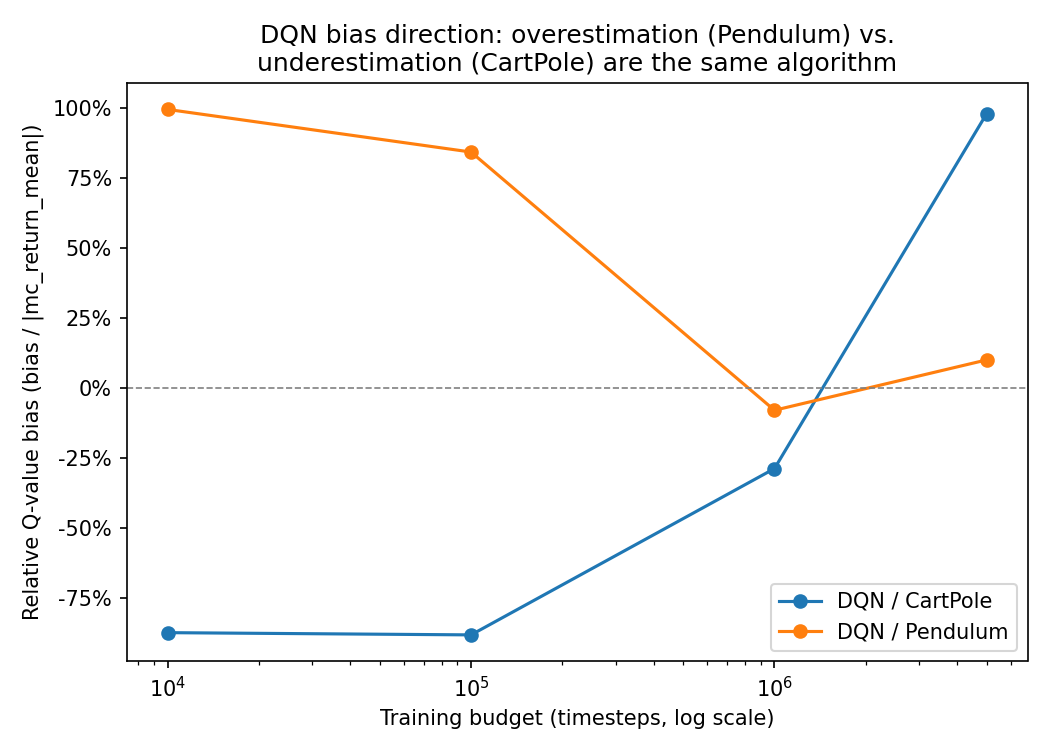
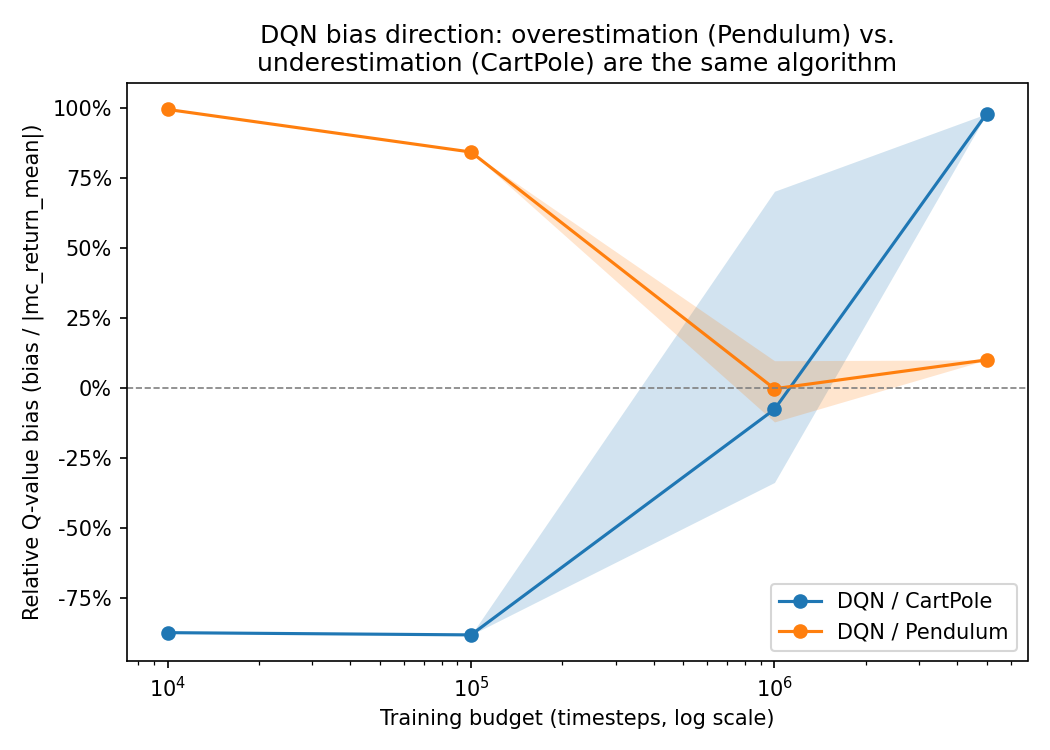
add model evaluation different seeds

Changed region(s): [[0.4571, 0.1533, 0.9448, 0.8587], [0.4876, 0.2453, 0.5181, 0.276], [0.4571, 0.2147, 0.4876, 0.2453]]

diff --git a/evaluate_models.py b/evaluate_models.py
@@ -39,6 +39,7 @@ import argparse
 import csv
 import json
 import re
+from collections import defaultdict
 from pathlib import Path
 from typing import Optional
 
@@ -409,28 +410,45 @@ def select_canonical_checkpoint_runs(ckpt_rows_by_run: dict[str, list[dict]]) ->
     return canonical
 
 
-# =============================================================================
 # Plots: default (budget-comparison) mode
-# =============================================================================
+
+def _aggregate_new_by_budget(
+    rows: list[dict], algo: str, env_id: str, value_key: str
+) -> tuple[np.ndarray, np.ndarray, np.ndarray, np.ndarray]:
+    """Groups 'new'-variant rows for (algo, env_id) by training budget and
+    aggregates value_key across seeds sharing that budget.
+
+    Returns (budgets, means, lo, hi), all sorted by budget.
+    """
+    by_budget = defaultdict(list)
+    for r in rows:
+        if r["algo"] == algo and r["env_id"] == env_id and r["variant"] == "new":
+            by_budget[r["timesteps"]].append(r[value_key])
+
+    budgets = np.array(sorted(by_budget))
+    means = np.array([np.mean(by_budget[b]) for b in budgets])
+    lo = np.array([np.min(by_budget[b]) for b in budgets])
+    hi = np.array([np.max(by_budget[b]) for b in budgets])
+    return budgets, means, lo, hi
+
 
 def plot_bias_direction(rows: list[dict], out_path: Path) -> None:
     """Finding: DQN's Q-value bias direction is opposite on CartPole
     (underestimates for most of training) vs. Pendulum (overestimates for
     most of training).
+
+    Budgets with more than one seed are aggregated:
+    mean line, shaded band spans the observed min-max across seeds.
     """
     groups = [("dqn", "CartPole-v1", "DQN / CartPole"), ("dqn", "Pendulum-v1", "DQN / Pendulum")]
     fig, ax = plt.subplots(figsize=(7, 5))
 
     for algo, env_id, label in groups:
-        group_rows = sorted(
-            (r for r in rows if r["algo"] == algo and r["env_id"] == env_id and r["variant"] == "new"),
-            key=lambda r: r["timesteps"],
-        )
-        if not group_rows:
+        budgets, means, lo, hi = _aggregate_new_by_budget(rows, algo, env_id, "relative_bias")
+        if len(budgets) == 0:
             continue
-        budgets = [r["timesteps"] for r in group_rows]
-        rel_bias = [r["relative_bias"] for r in group_rows]
-        ax.plot(budgets, rel_bias, marker="o", label=label)
+        line, = ax.plot(budgets, means, marker="o", label=label)
+        ax.fill_between(budgets, lo, hi, color=line.get_color(), alpha=0.2, linewidth=0)
 
     ax.axhline(0, color="gray", linestyle="--", linewidth=0.8)
     ax.set_xscale("log")
@@ -447,6 +465,9 @@ def plot_bias_direction(rows: list[dict], out_path: Path) -> None:
 def plot_bias_consistency(rows: list[dict], out_path: Path) -> None:
     """Finding: bias_std shows a different kind of instability than bias
     direction/magnitude.
+
+    Budgets with more than one seed are aggregated:
+    mean line, shaded band spans the observed min-max across seeds.
     """
     groups = [
         ("dqn", "CartPole-v1", "DQN / CartPole"),
@@ -457,15 +478,11 @@ def plot_bias_consistency(rows: list[dict], out_path: Path) -> None:
     fig, ax = plt.subplots(figsize=(7, 5))
 
     for algo, env_id, label in groups:
-        group_rows = sorted(
-            (r for r in rows if r["algo"] == algo and r["env_id"] == env_id and r["variant"] == "new"),
-            key=lambda r: r["timesteps"],
-        )
-        if not group_rows:
+        budgets, means, lo, hi = _aggregate_new_by_budget(rows, algo, env_id, "bias_std")
+        if len(budgets) == 0:
             continue
-        budgets = [r["timesteps"] for r in group_rows]
-        bias_std = [r["bias_std"] for r in group_rows]
-        ax.plot(budgets, bias_std, marker="o", label=label)
+        line, = ax.plot(budgets, means, marker="o", label=label)
+        ax.fill_between(budgets, lo, hi, color=line.get_color(), alpha=0.2, linewidth=0)
 
     ax.set_xscale("log")
     ax.set_yscale("log")
@@ -513,8 +530,16 @@ def plot_collapse_signal_vs_noise(rows: list[dict], out_path: Path) -> None:
         return
     candidates = sorted(candidates, key=lambda r: abs(r["reeval_degradation_sem_ratio"]))
 
+    def base_label(r: dict) -> str:
+        return f"{r['algo']}/{r['env_id']} {r['timesteps']:,}" + ("" if r["variant"] == "new" else f" [{r['variant']}]")
+
+    # Budgets with more than one seed need the
+    # seed appended so each one gets its own row.
+    base_counts: dict[str, int] = defaultdict(int)
+    for r in candidates:
+        base_counts[base_label(r)] += 1
     labels = [
-        f"{r['algo']}/{r['env_id']} {r['timesteps']:,}" + ("" if r["variant"] == "new" else f" [{r['variant']}]")
+        base_label(r) + (f" (seed {r['seed']})" if base_counts[base_label(r)] > 1 else "")
         for r in candidates
     ]
     values = [r["reeval_degradation_sem_ratio"] for r in candidates]
@@ -585,9 +610,7 @@ def run_default_mode(plots_only: bool) -> None:
     print(f"Plots: {RESULTS_DIR}/*.png")
 
 
-# =============================================================================
 # Plots: --checkpoints mode
-# =============================================================================
 
 def plot_checkpoint_progression(all_ckpt_rows: dict[str, list[dict]], out_path: Path) -> None:
     """Tracks relative Q-value bias and re-eval performance across every
@@ -745,9 +768,7 @@ def run_checkpoints_mode(plots_only: bool = False, csv_path: Optional[Path] = No
     print(f"Plot: {plot_path}")
 
 
-# =============================================================================
 # CLI
-# =============================================================================
 
 def main() -> None:
     parser = argparse.ArgumentParser()
